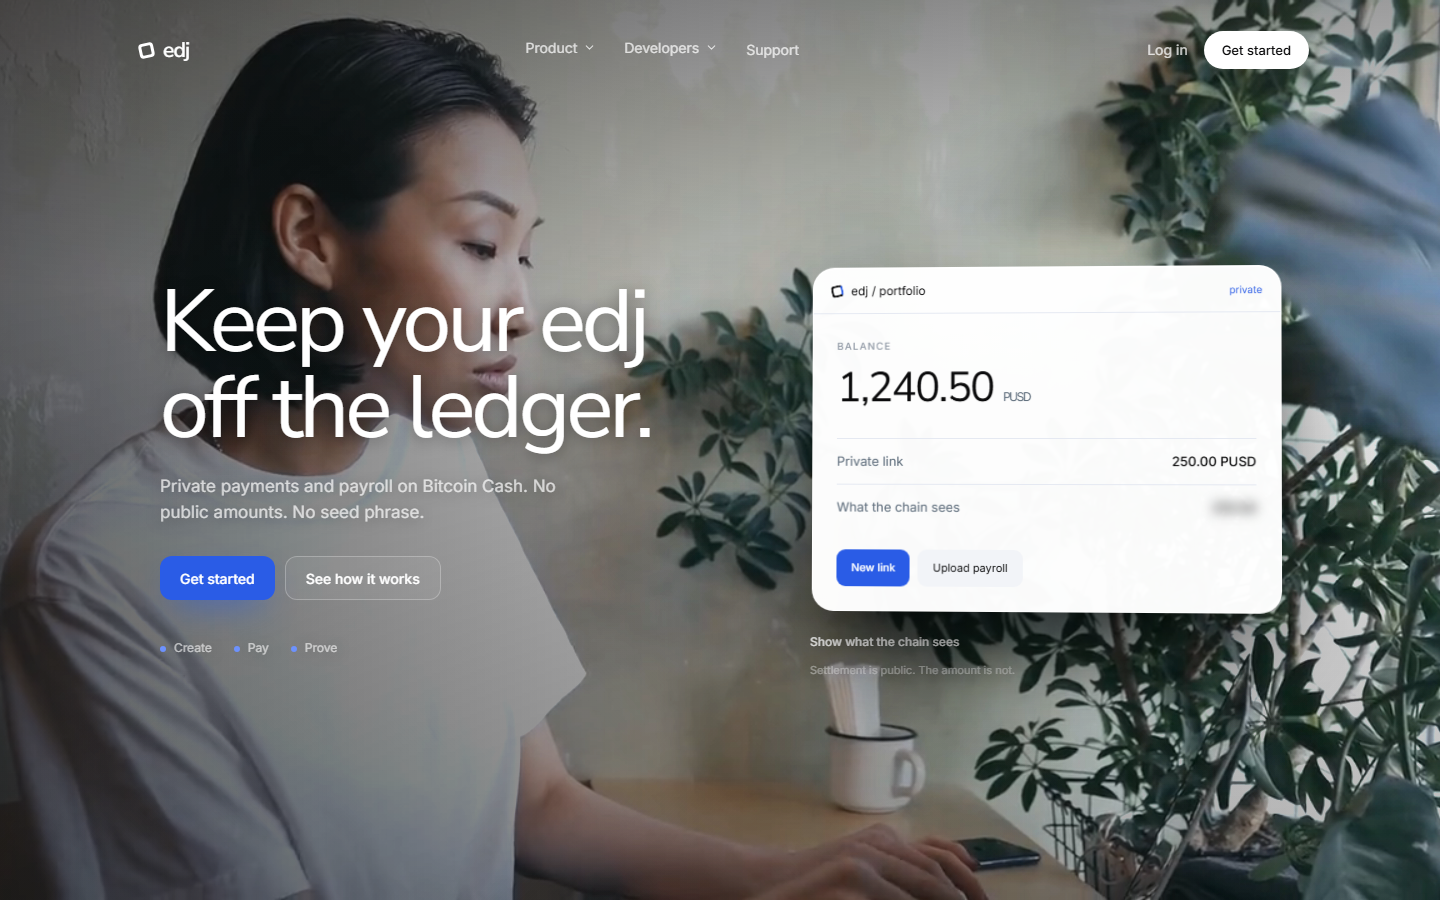
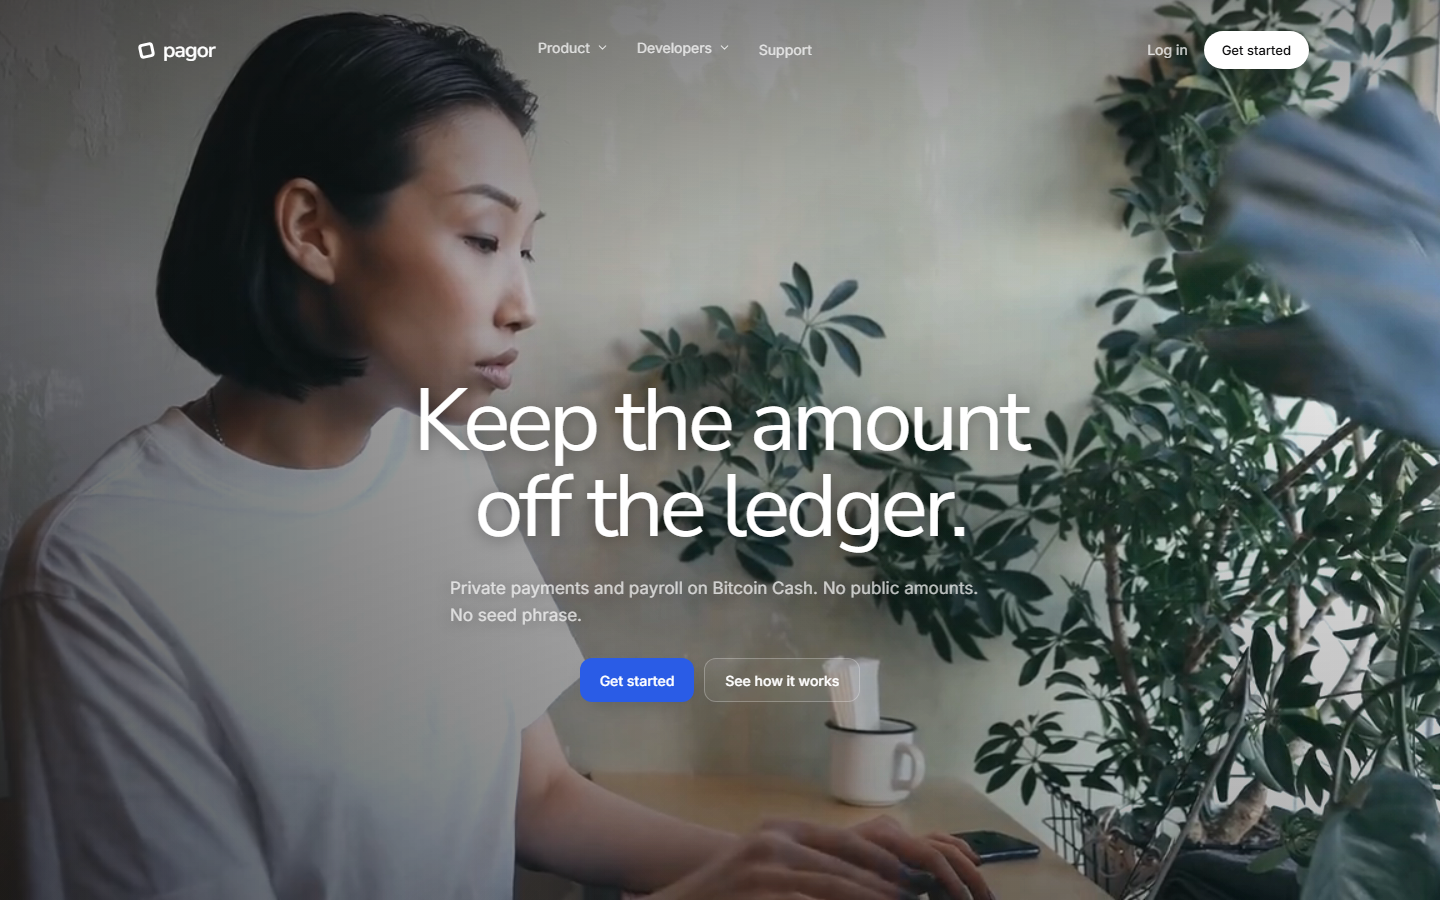
Restore wallet sessions instantly and refresh README preview

diff --git a/web/static/wallet.js b/web/static/wallet.js
@@ -1,4 +1,4 @@
-const state = { mod: null, mgr: null, relay: null, connected: false, address: null };
+const state = { mod: null, mgr: null, relay: null, connected: false, address: null, uri: null, qr: null };
 
 async function ensureModule() {
   if (!state.mod) state.mod = await import('/static/vendor/wizardconnect.js');
@@ -7,6 +7,7 @@ async function ensureModule() {
 
 window.PagorWallet = {
   async connect() {
+    if (state.connected && state.uri) return { uri: state.uri, qr: state.qr };
     const mod = await ensureModule();
     if (!state.mgr) {
       state.mgr = new mod.DappConnectionManager('pagor');
@@ -30,7 +31,47 @@ window.PagorWallet = {
     state.relay = mod.initiateDappRelay((payload) => state.mgr.updateConnection(payload.client, payload.status));
     state.mgr.attachRelay(state.relay);
     const qr = await mod.renderQR(state.relay.uri);
-    return { uri: state.relay.uri, qr };
+    state.uri = state.relay.uri;
+    state.qr = qr;
+    return { uri: state.uri, qr };
+  },
+
+  // Restore a previously linked wallet from WizardConnect's local session.
+  // This runs before any QR scan and makes an existing connection visible
+  // immediately, instead of waiting for the wallet relay handshake.
+  async restore() {
+    const mod = await ensureModule();
+    if (!state.mgr) {
+      state.mgr = new mod.DappConnectionManager('pagor');
+      state.mgr.on('walletready', (msg) => {
+        state.connected = true;
+        try {
+          state.address = mod.pubkeyToCashAddress(state.mgr.getPubkey(0, 0n));
+        } catch (error) {
+          state.address = null;
+        }
+        window.dispatchEvent(new CustomEvent('pagor-wallet-ready', {
+          detail: { name: msg.wallet_name, address: state.address }
+        }));
+      });
+      state.mgr.on('disconnect', () => {
+        state.connected = false;
+        state.address = null;
+        window.dispatchEvent(new CustomEvent('pagor-wallet-disconnect'));
+      });
+    }
+    const stored = state.mgr.loadStoredSession?.();
+    if (!stored?.paths?.length) return false;
+    try {
+      state.address = mod.pubkeyToCashAddress(state.mgr.getPubkey(0, 0n));
+      state.connected = true;
+      window.dispatchEvent(new CustomEvent('pagor-wallet-ready', {
+        detail: { name: stored.walletName || 'wallet', address: state.address, restored: true }
+      }));
+      return true;
+    } catch (error) {
+      return false;
+    }
   },
 
   get connected() { return state.connected; },
@@ -48,5 +89,7 @@ window.PagorWallet = {
     }
     state.connected = false;
     state.address = null;
+    state.uri = null;
+    state.qr = null;
   }
 };

diff --git a/web/static/app.js b/web/static/app.js
@@ -351,6 +351,9 @@
       connectWalletBtn.textContent = 'Connect wallet';
       connectWalletBtn.classList.remove('connected');
     });
+    window.PagorWallet.restore().catch(() => {});
+  } else if (window.PagorWallet) {
+    window.PagorWallet.restore().catch(() => {});
   }
 
   // Back to top.

diff --git a/web/static/wallet-adapter.js b/web/static/wallet-adapter.js
@@ -68,6 +68,11 @@ export class BchAdapter extends PagorWalletAdapter {
     return this.wallet.connect();
   }
 
+  async restore() {
+    if (!this.wallet.restore) return false;
+    return this.wallet.restore();
+  }
+
   async disconnect() {
     return this.wallet.disconnect();
   }

diff --git a/V3-PLAN.md b/V3-PLAN.md
@@ -63,6 +63,9 @@ Every public-ledger chain must be described honestly. We do not claim private pa
 - Batch covenant tooling: done. `tools/contract/payroll-covenant.mjs` builds up to four recipients from CSV.
 - SDK encryption: done. `createPrivatePayroll` and `decryptPayroll` added to `@pagor/sdk` and the served source client.
 
+- Wallet UX: WizardConnect sessions are restored from local storage on page load, so an already linked wallet is reflected immediately. Fresh links still need the wallet relay handshake.
+- Landing preview: README now uses a current screenshot from `usepagor.xyz`.
+
 Still open: key import, chipnet signature verification with a real wallet, mainnet transaction, independent audit, and chain adapters after BCH.
 
 ## Explicitly out of scope
